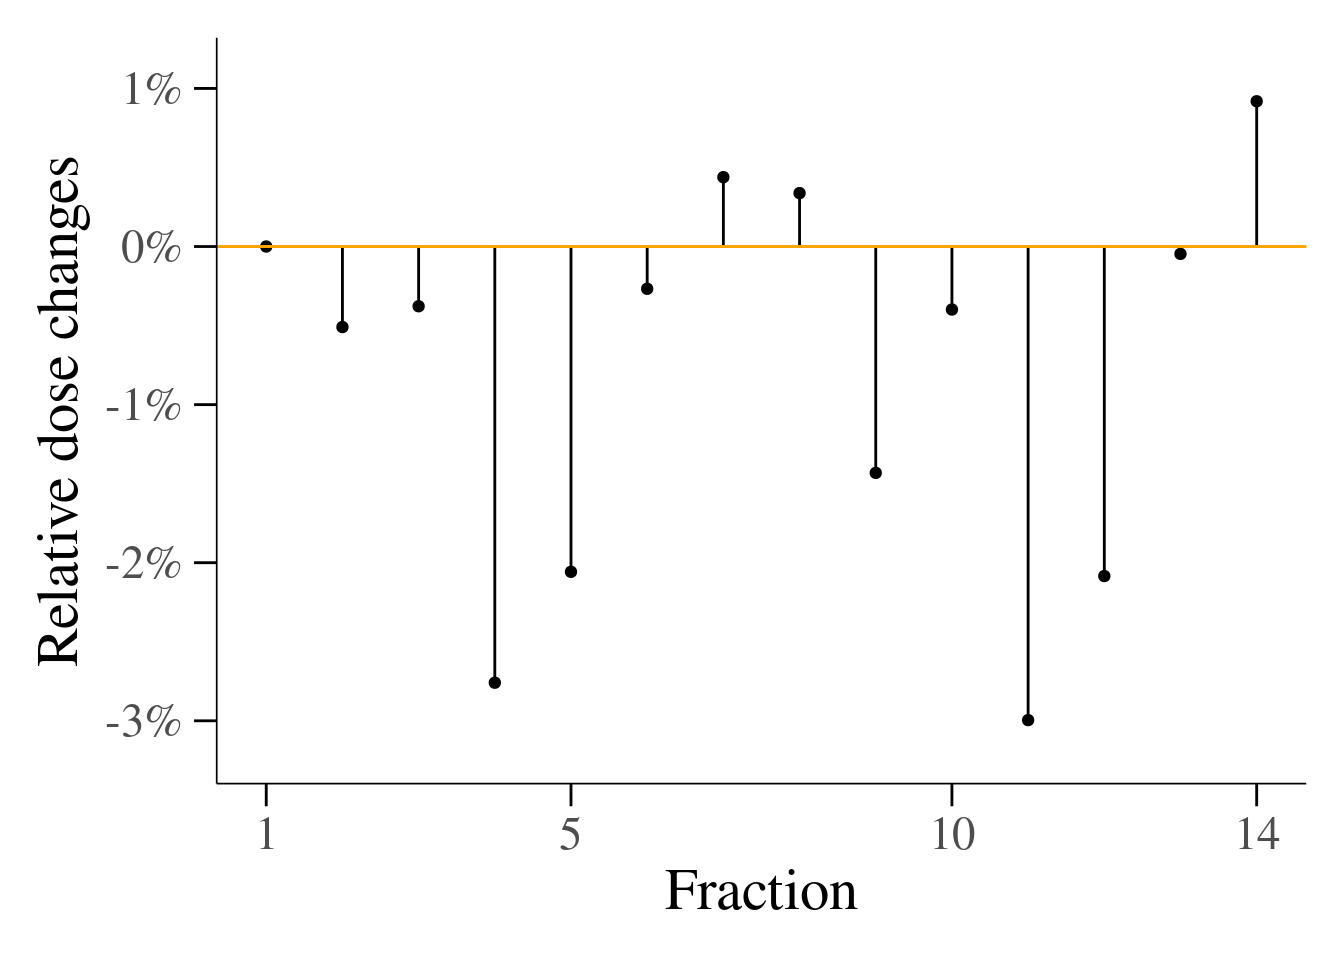
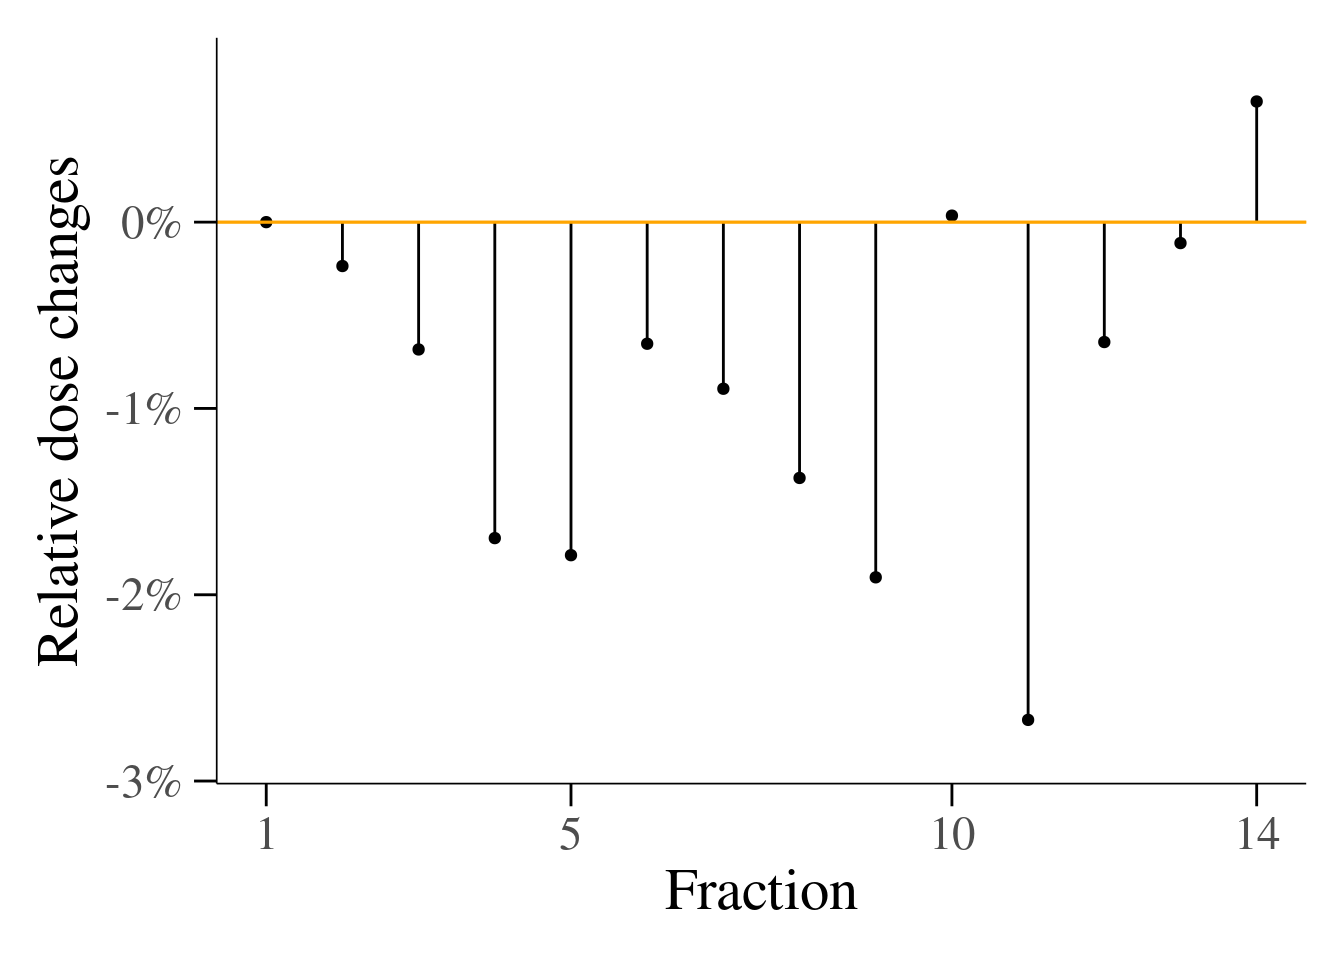
Build site.

diff --git a/docs/PatientX.html b/docs/PatientX.html
@@ -517,16 +517,16 @@ This reproducible <a href="http://rmarkdown.rstudio.com">R Markdown</a> analysis
 <div class="panel panel-default">
 <div class="panel-heading">
 <p class="panel-title">
-<a data-toggle="collapse" data-parent="#workflowr-checks" href="#strongRepositoryversionstrongahrefhttpsgithubcomdssrttnTesttree05e3a147a918bce7a4ef9f72c8196f15611f1c37targetblank05e3a14a"> <span class="glyphicon glyphicon-ok text-success" aria-hidden="true"></span> <strong>Repository version:</strong> <a href="https://github.com/dssrttn/Test/tree/05e3a147a918bce7a4ef9f72c8196f15611f1c37" target="_blank">05e3a14</a> </a>
+<a data-toggle="collapse" data-parent="#workflowr-checks" href="#strongRepositoryversionstrongahrefhttpsgithubcomdssrttnTesttree71c47163a48791ddb10af4873c70234c1fee0ad8targetblank71c4716a"> <span class="glyphicon glyphicon-ok text-success" aria-hidden="true"></span> <strong>Repository version:</strong> <a href="https://github.com/dssrttn/Test/tree/71c47163a48791ddb10af4873c70234c1fee0ad8" target="_blank">71c4716</a> </a>
 </p>
 </div>
[2 lines of base64/hex data omitted]
 <div class="panel-body">
 <p>
 Great! You are using Git for version control. Tracking code development and connecting the code version to the results is critical for reproducibility.
 </p>
 <p>
-The results in this page were generated with repository version <a href="https://github.com/dssrttn/Test/tree/05e3a147a918bce7a4ef9f72c8196f15611f1c37" target="_blank">05e3a14</a>. See the <em>Past versions</em> tab to see a history of the changes made to the R Markdown and HTML files.
+The results in this page were generated with repository version <a href="https://github.com/dssrttn/Test/tree/71c47163a48791ddb10af4873c70234c1fee0ad8" target="_blank">71c4716</a>. See the <em>Past versions</em> tab to see a history of the changes made to the R Markdown and HTML files.
 </p>
 <p>
 Note that you need to be careful to ensure that all relevant files for the analysis have been committed to Git prior to generating the results (you can use <code>wflow_publish</code> or <code>wflow_git_commit</code>). workflowr only checks the R Markdown file, but you know if there are other scripts or data files that it depends on. Below is the status of the Git repository when the results were generated:
@@ -591,6 +591,7 @@ Unstaged changes:
     Modified:   analysis/dilundboost.Rmd
     Modified:   analysis/kable.Rmd
     Modified:   analysis/xvi.Rmd
+    Modified:   code/Bladder_mean_rel.R
     Deleted:    code/Boxplot_to_DIL_mean.R
     Deleted:    code/Boxplot_to_DIL_mean2.R
 
@@ -631,6 +632,40 @@ Message
 </tr>
 </thead>
 <tbody>
+<tr>
+<td>
+Rmd
+</td>
+<td>
+<a href="https://github.com/dssrttn/Test/blob/71c47163a48791ddb10af4873c70234c1fee0ad8/analysis/PatientX.Rmd" target="_blank">71c4716</a>
+</td>
+<td>
+Mein Vorname
+</td>
+<td>
+2020-08-26
+</td>
+<td>
+Blase auf D_10 angepasst
+</td>
+</tr>
+<tr>
+<td>
+html
+</td>
+<td>
+<a href="https://rawcdn.githack.com/dssrttn/Test/daed05e91c89e3cd72b212458274d47bdaa1f69d/docs/PatientX.html" target="_blank">daed05e</a>
+</td>
+<td>
+Mein Vorname
+</td>
+<td>
+2020-08-26
+</td>
+<td>
+Build site.
+</td>
+</tr>
 <tr>
 <td>
 Rmd
@@ -2405,6 +2440,17 @@ Date
 <tbody>
 <tr>
 <td>
+<a href="https://github.com/dssrttn/Test/blob/daed05e91c89e3cd72b212458274d47bdaa1f69d/docs/figure/PatientX.Rmd/DIL minus boost Boxplot-1.png" target="_blank">daed05e</a>
+</td>
+<td>
+Mein Vorname
+</td>
+<td>
+2020-08-26
+</td>
+</tr>
+<tr>
+<td>
 <a href="https://github.com/dssrttn/Test/blob/f1629808f877c0f0604b2794dba7f0e9006702b8/docs/figure/PatientX.Rmd/DIL minus boost Boxplot-1.png" target="_blank">f162980</a>
 </td>
 <td>
@@ -3112,7 +3158,7 @@ Mein Vorname
 <pre class="r"><code>source(here::here(&quot;code/Bladder_mean_rel.R&quot;))
  
 
-Bladder_mean_rel_table %&gt;%
+Bladder_D_10_rel_table %&gt;%
   kable(align = c(&quot;ccccccccc&quot;), escape = FALSE, format =&#39;html&#39;, caption = &quot;Rectum mean descriptive statistics&quot;) %&gt;%
   kable_styling(bootstrap_options = c(&quot;striped&quot;, &quot;hover&quot;, &quot;condensed&quot;),
                 full_width = TRUE)</code></pre>
@@ -3126,7 +3172,7 @@ Rectum mean descriptive statistics
 Fraction
 </th>
 <th style="text-align:center;">
-Mittelwert
+D_10
 </th>
 <th style="text-align:center;">
 Relative change
@@ -3139,7 +3185,7 @@ Relative change
 1
 </td>
 <td style="text-align:center;">
-25.2
+69.1
 </td>
 <td style="text-align:center;">
 0.000
@@ -3150,10 +3196,10 @@ Relative change
 2
 </td>
 <td style="text-align:center;">
-25.1
+68.9
 </td>
 <td style="text-align:center;">
--0.509
+-0.236
 </td>
 </tr>
 <tr>
@@ -3161,10 +3207,10 @@ Relative change
 3
 </td>
 <td style="text-align:center;">
-25.1
+68.6
 </td>
 <td style="text-align:center;">
--0.378
+-0.683
 </td>
 </tr>
 <tr>
@@ -3172,10 +3218,10 @@ Relative change
 4
 </td>
 <td style="text-align:center;">
-24.5
+67.9
 </td>
 <td style="text-align:center;">
--2.759
+-1.696
 </td>
 </tr>
 <tr>
@@ -3183,10 +3229,10 @@ Relative change
 5
 </td>
 <td style="text-align:center;">
-24.7
+67.9
 </td>
 <td style="text-align:center;">
--2.058
+-1.788
 </td>
 </tr>
 <tr>
@@ -3194,10 +3240,10 @@ Relative change
 6
 </td>
 <td style="text-align:center;">
-25.1
+68.6
 </td>
 <td style="text-align:center;">
--0.267
+-0.653
 </td>
 </tr>
 <tr>
@@ -3205,10 +3251,10 @@ Relative change
 7
 </td>
 <td style="text-align:center;">
-25.3
+68.5
 </td>
 <td style="text-align:center;">
-0.439
+-0.894
 </td>
 </tr>
 <tr>
@@ -3216,10 +3262,10 @@ Relative change
 8
 </td>
 <td style="text-align:center;">
-25.3
+68.1
 </td>
 <td style="text-align:center;">
-0.338
+-1.373
 </td>
 </tr>
 <tr>
@@ -3227,10 +3273,10 @@ Relative change
 9
 </td>
 <td style="text-align:center;">
-24.8
+67.8
 </td>
 <td style="text-align:center;">
--1.432
+-1.907
 </td>
 </tr>
 <tr>
@@ -3238,10 +3284,10 @@ Relative change
 10
 </td>
 <td style="text-align:center;">
-25.1
+69.1
 </td>
 <td style="text-align:center;">
--0.399
+0.035
 </td>
 </tr>
 <tr>
@@ -3249,10 +3295,10 @@ Relative change
 11
 </td>
 <td style="text-align:center;">
-24.4
+67.2
 </td>
 <td style="text-align:center;">
--2.996
+-2.672
 </td>
 </tr>
 <tr>
@@ -3260,10 +3306,10 @@ Relative change
 12
 </td>
 <td style="text-align:center;">
-24.7
+68.6
 </td>
 <td style="text-align:center;">
--2.084
+-0.644
 </td>
 </tr>
 <tr>
@@ -3271,10 +3317,10 @@ Relative change
 13
 </td>
 <td style="text-align:center;">
-25.2
+69.0
 </td>
 <td style="text-align:center;">
--0.047
+-0.112
 </td>
 </tr>
 <tr>
@@ -3282,10 +3328,10 @@ Relative change
 14
 </td>
 <td style="text-align:center;">
-25.4
+69.5
 </td>
 <td style="text-align:center;">
-0.919
+0.648
 </td>
 </tr>
 </tbody>
@@ -3296,10 +3342,10 @@ Relative change
 <pre class="r"><code>source(here::here(&quot;code/Bladder_mean_rel.R&quot;))
 
 
-ggplot(Bladder_mean_rel, aes(x=1:nrow(Bladder_mean_rel), y=y)) + 
- geom_segment( aes(x=1:nrow(Bladder_mean_rel), xend=1:nrow(Bladder_mean_rel), y=0, yend=y), color=&quot;black&quot;) + # Striche von der Hoehe y bis zu den Punkten
+ggplot(Bladder_D_10_rel, aes(x=1:nrow(Bladder_D_10_rel), y=y)) + 
+ geom_segment( aes(x=1:nrow(Bladder_D_10_rel), xend=1:nrow(Bladder_D_10_rel), y=0, yend=y), color=&quot;black&quot;) + # Striche von der Hoehe y bis zu den Punkten
 geom_point() +
-scale_x_continuous(breaks = c(1,5,10,nrow(Bladder_mean_rel)))  + # adds only specific ticks
+scale_x_continuous(breaks = c(1,5,10,nrow(Bladder_D_10_rel)))  + # adds only specific ticks
 geom_abline(intercept = 0, slope = 0, lty=1, col=&#39;orange&#39;) + # horizontale Linie ohne Steigung, da slope = 0 
 ggtitle(&quot;DIL - Relative dose changes in percent from the 1st fraction in rectum dvh&quot;) +
 xlab(&quot;Fraction&quot;) + # X-Achsen-Beschriftung
@@ -3383,7 +3429,7 @@ Mein Vorname
 <h2>Relation bladder mean and DIL mean</h2>
 <pre class="r"><code>#source(here::here(&quot;code/Bladder_mean_rel.R&quot;))
 
-plot(Bladder_mean_rel$relchange, DIL_mean_rel$relchange)</code></pre>
+plot(Bladder_D_10_rel$relchange, DIL_mean_rel$relchange)</code></pre>
 <p><img src="figure/PatientX.Rmd/linear%20regression%20Bladder%20DIL%20means-1.png" width="672" style="display: block; margin: auto;" /></p>
 <p>
 <button type="button" class="btn btn-default btn-xs btn-workflowr btn-workflowr-fig" data-toggle="collapse" data-target="#fig-no-spaces-linear-regression-Bladder-DIL-means-1">
@@ -3422,48 +3468,48 @@ Mein Vorname
 </table>
 </div>
 </div>
-<pre class="r"><code>x_Bladder_mean_rel &lt;- Bladder_mean_rel$relchange
+<pre class="r"><code>x_Bladder_D_10_rel &lt;- Bladder_D_10_rel$relchange
 y_DIL_mean_rel &lt;- DIL_mean_rel$relchange
 
-linearregression_Bladder_DIL &lt;- lm(y_DIL_mean_rel ~ x_Bladder_mean_rel)
-lm(formula = y_DIL_mean_rel ~ x_Bladder_mean_rel)</code></pre>
+linearregression_Bladder_DIL &lt;- lm(y_DIL_mean_rel ~ x_Bladder_D_10_rel)
+lm(formula = y_DIL_mean_rel ~ x_Bladder_D_10_rel)</code></pre>
 <pre><code>
 Call:
-lm(formula = y_DIL_mean_rel ~ x_Bladder_mean_rel)
+lm(formula = y_DIL_mean_rel ~ x_Bladder_D_10_rel)
 
 Coefficients:
-       (Intercept)  x_Bladder_mean_rel  
-           -0.3282              0.0558  </code></pre>
+       (Intercept)  x_Bladder_D_10_rel  
+            -0.221               0.178  </code></pre>
 <pre class="r"><code>fitted.values(linearregression_Bladder_DIL)</code></pre>
 <pre><code>     1      2      3      4      5      6      7      8      9     10     11 
--0.328 -0.357 -0.349 -0.482 -0.443 -0.343 -0.304 -0.309 -0.408 -0.350 -0.495 
+-0.221 -0.263 -0.342 -0.522 -0.539 -0.337 -0.380 -0.465 -0.560 -0.215 -0.696 
     12     13     14 
--0.444 -0.331 -0.277 </code></pre>
+-0.335 -0.241 -0.106 </code></pre>
 <pre class="r"><code>residuals(linearregression_Bladder_DIL)</code></pre>
 <pre><code>      1       2       3       4       5       6       7       8       9      10 
- 0.3282 -0.1977 -0.1456 -0.3297 -0.1626 -0.2781 -0.6749  0.1334 -0.1967  0.3440 
+ 0.2210 -0.2914 -0.1525 -0.2895 -0.0670 -0.2843 -0.5987  0.2890 -0.0451  0.2084 
      11      12      13      14 
- 0.1989  0.5387  0.0573  0.3848 </code></pre>
+ 0.3992  0.4295 -0.0325  0.2138 </code></pre>
 <pre class="r"><code>summary(linearregression_Bladder_DIL)</code></pre>
 <pre><code>
 Call:
-lm(formula = y_DIL_mean_rel ~ x_Bladder_mean_rel)
+lm(formula = y_DIL_mean_rel ~ x_Bladder_D_10_rel)
 
 Residuals:
     Min      1Q  Median      3Q     Max 
--0.6749 -0.1974 -0.0442  0.2959  0.5387 
+-0.5987 -0.2513 -0.0388  0.2192  0.4295 
 
 Coefficients:
                    Estimate Std. Error t value Pr(&gt;|t|)  
-(Intercept)         -0.3282     0.1135   -2.89    0.014 *
-x_Bladder_mean_rel   0.0558     0.0789    0.71    0.493  
+(Intercept)         -0.2210     0.1174   -1.88    0.084 .
+x_Bladder_D_10_rel   0.1776     0.0951    1.87    0.087 .
 ---
 Signif. codes:  0 &#39;***&#39; 0.001 &#39;**&#39; 0.01 &#39;*&#39; 0.05 &#39;.&#39; 0.1 &#39; &#39; 1
 
-Residual standard error: 0.353 on 12 degrees of freedom
-Multiple R-squared:  0.04,  Adjusted R-squared:  -0.04 
-F-statistic:  0.5 on 1 and 12 DF,  p-value: 0.493</code></pre>
-<pre class="r"><code>plot(x_Bladder_mean_rel, y_DIL_mean_rel)
+Residual standard error: 0.317 on 12 degrees of freedom
+Multiple R-squared:  0.225, Adjusted R-squared:  0.161 
+F-statistic: 3.49 on 1 and 12 DF,  p-value: 0.0865</code></pre>
+<pre class="r"><code>plot(x_Bladder_D_10_rel, y_DIL_mean_rel)
 abline(linearregression_Bladder_DIL, col = &quot;red&quot;)</code></pre>
 <p><img src="figure/PatientX.Rmd/linear%20regression%20Bladder%20DIL%20means-2.png" width="672" style="display: block; margin: auto;" /></p>
 <p>
